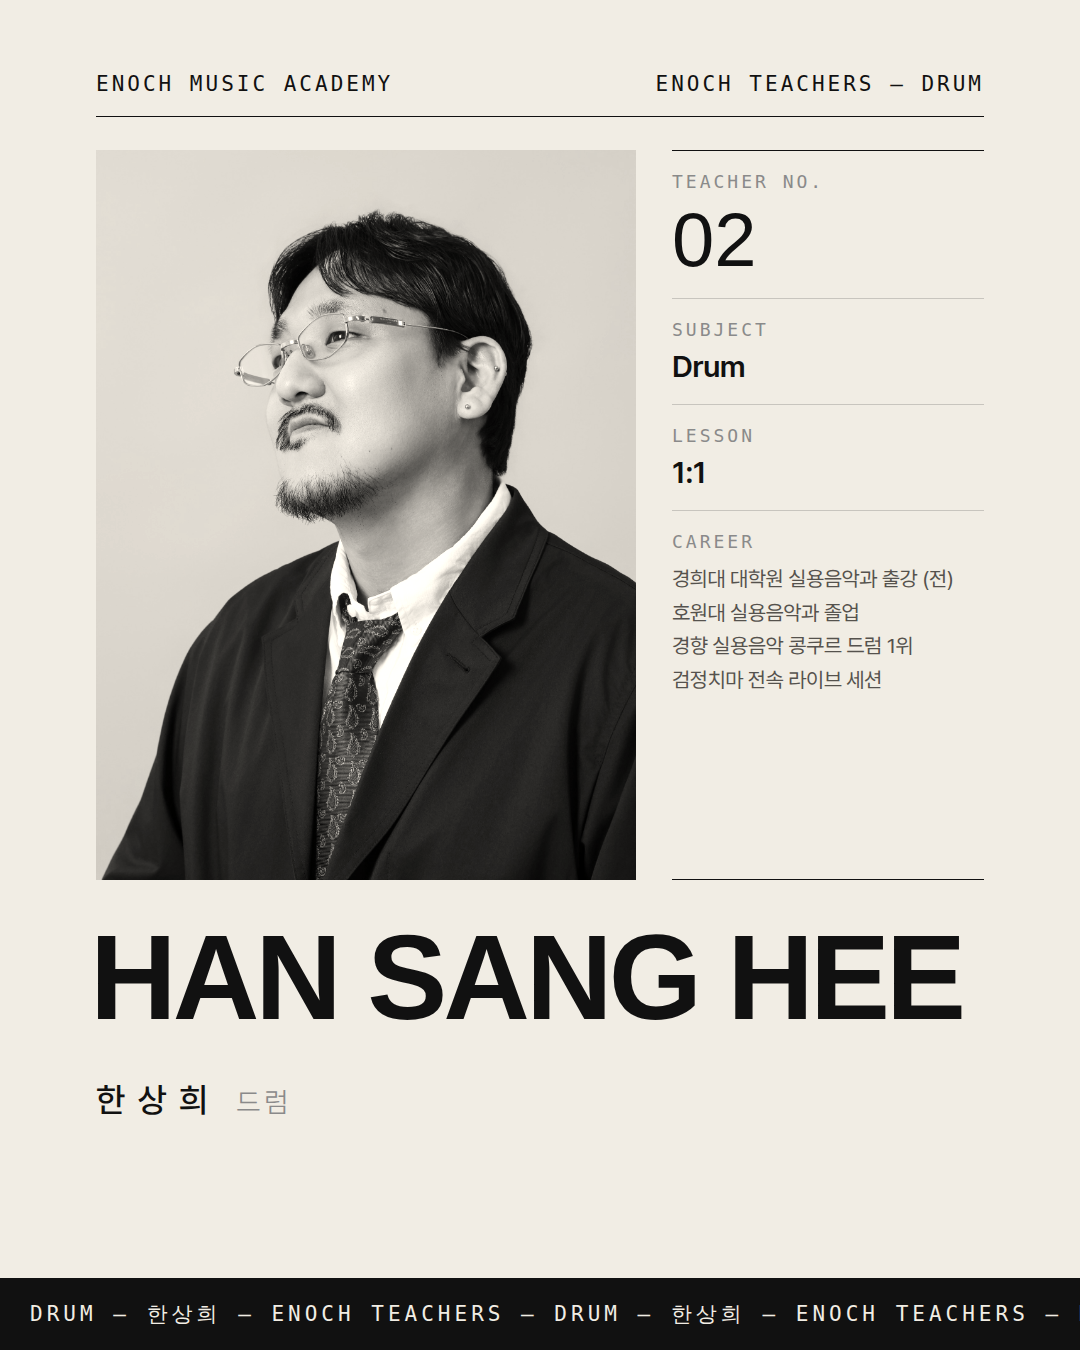
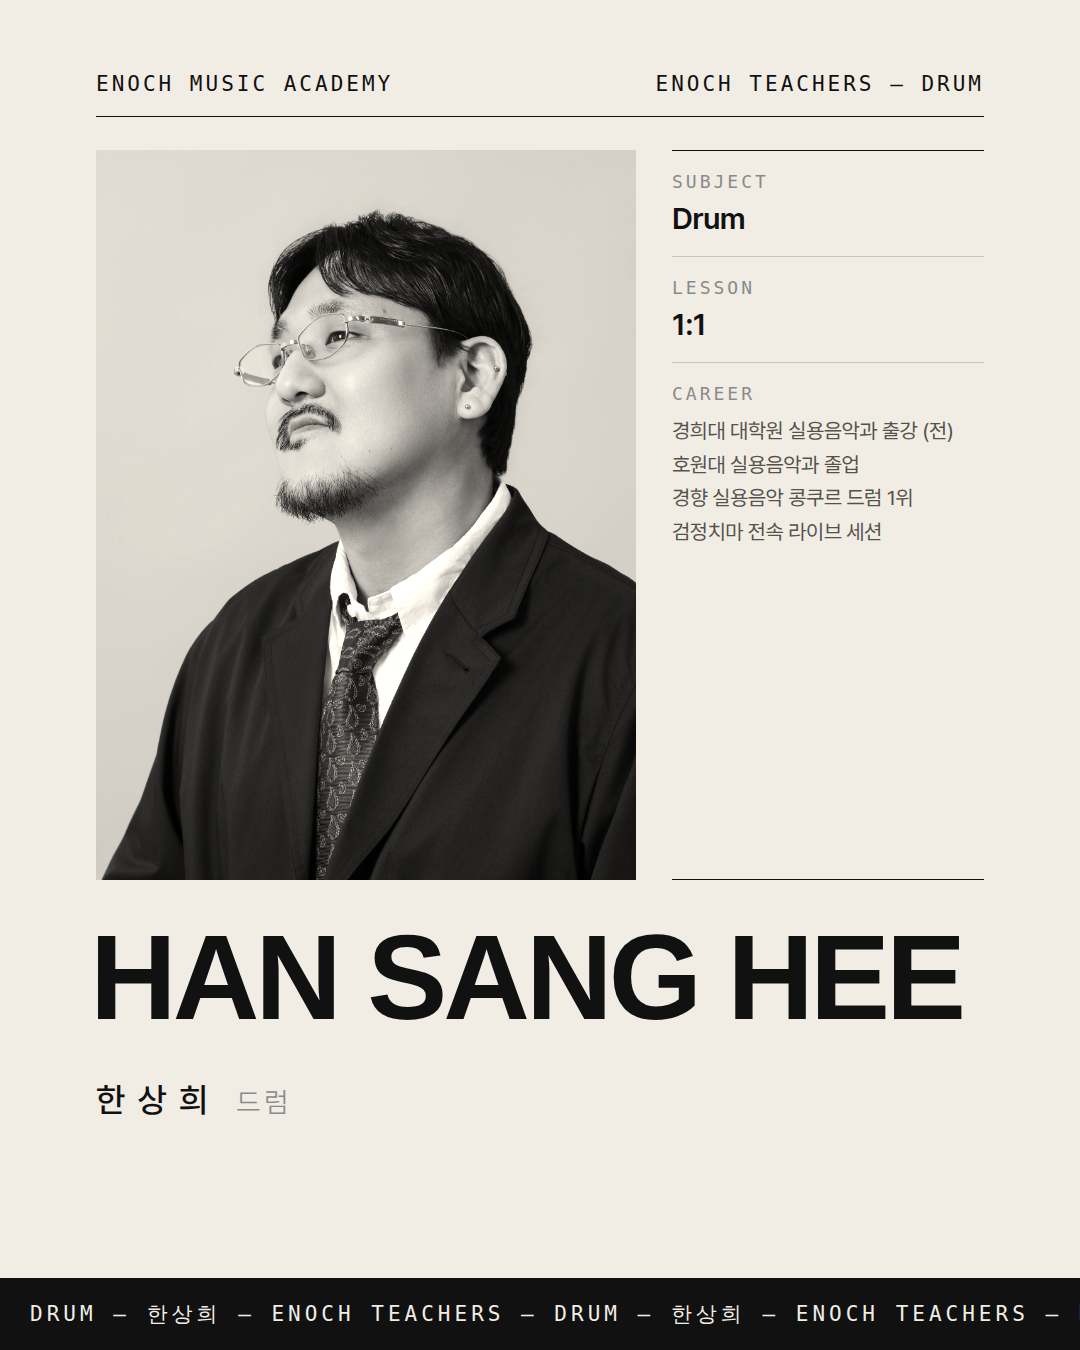
강사 소개: 순번 삭제 (스토리·피드), CLAUDE.md 규칙 반영
Claude-Session: https://claude.ai/code/session_01HGbZvgMeYrbU7mY8bwfjyb

Changed region(s): [[0.6111, 0.1244, 0.8861, 0.5289]]

diff --git a/output/강사소개_한상희/feed.html b/output/강사소개_한상희/feed.html
@@ -47,8 +47,7 @@
   <div class="hd"><span>ENOCH MUSIC ACADEMY</span><span>ENOCH TEACHERS — DRUM</span></div>
   <div class="ph"></div>
   <div class="col">
-    <div class="cell"><div class="k">Teacher No.</div><div class="no" style="margin-top:10px">02</div></div>
-    <div class="cell"><div class="k">Subject</div><div class="v">Drum</div></div>
+        <div class="cell"><div class="k">Subject</div><div class="v">Drum</div></div>
     <div class="cell"><div class="k">Lesson</div><div class="v">1:1</div></div>
     <div class="cell"><div class="k">Career</div><div class="t">경희대 대학원 실용음악과 출강 (전)<br>호원대 실용음악과 졸업<br>경향 실용음악 콩쿠르 드럼 1위<br>검정치마 전속 라이브 세션</div></div>
   </div>

diff --git a/output/강사소개_한상희/feed_black.html b/output/강사소개_한상희/feed_black.html
@@ -63,7 +63,7 @@
 .lime{color:#DDE37C}
 </style></head><body><section class="s bl" id="r1">
   <div class="top"><span class="lab g">ENOCH TEACHERS</span><span class="lab">DRUM</span></div>
-  <div class="side"><span class="n">02</span><span class="lab g" style="writing-mode:vertical-rl;transform:rotate(180deg)">ENOCH MUSIC ACADEMY</span></div>
+  <div class="side"><span></span><span class="lab g" style="writing-mode:vertical-rl;transform:rotate(180deg)">ENOCH MUSIC ACADEMY</span></div>
   <div class="ph"></div>
   <div class="en">HAN SANG HEE</div>
   <div class="ko g">한상희</div>

diff --git a/output/강사소개_한상희/story.html b/output/강사소개_한상희/story.html
@@ -36,7 +36,7 @@
 
 <section class="s" id="R">
   <div class="top"><span class="lab g">ENOCH TEACHERS</span><span class="lab">DRUM</span></div>
-  <div class="side"><span class="n">02</span><span class="lab g" style="writing-mode:vertical-rl;transform:rotate(180deg)">ENOCH MUSIC ACADEMY</span></div>
+  <div class="side"><span></span><span class="lab g" style="writing-mode:vertical-rl;transform:rotate(180deg)">ENOCH MUSIC ACADEMY</span></div>
   <div class="ph"></div>
   <div class="en">HAN<br>SANG HEE</div>
   <div class="ko g">한상희</div>

diff --git a/output/강사소개_한상희/caption.md b/output/강사소개_한상희/caption.md
@@ -1,7 +1,7 @@
 # 캡션: 강사 소개 — 한상희 (Drum) 피드
 
 ## 본문
-ENOCH TEACHERS 02. 드럼, 한상희 선생님.
+ENOCH TEACHERS. 드럼, 한상희 선생님.
 
 검정치마 전속 라이브 세션, 윤종신 '좋니 콘서트' 전국투어 오프닝 밴드 전속 드러머. 무대와 녹음실에서 쌓은 박을, ENOCH에서는 1:1로 나눕니다.
 
@@ -15,7 +15,7 @@ ENOCH TEACHERS 02. 드럼, 한상희 선생님.
 #드럼레슨 #드럼학원 #실용음악입시 #입시드럼 #취미드럼 #성인드럼 #시흥드럼학원 #대야역음악학원 #시흥실용음악학원 #에녹실용음악학원
 
 ## 대체 텍스트
-1. 흑백 톤 프로필 사진과 오른쪽 격자(02 · Drum · 1:1 · 대표 약력 4줄), 큰 영문 이름 HAN SANG HEE, 한상희 드럼, 하단 반복 텍스트 띠.
+1. 흑백 톤 프로필 사진과 오른쪽 격자(Drum · 1:1 · 대표 약력 4줄), 큰 영문 이름 HAN SANG HEE, 한상희 드럼, 하단 반복 텍스트 띠.
 2. 약력 표: Education, Awards, Band, PERC%NT.
 3. 약력 표: Live, Recording.
 4. 검정 장 "무대에서 쌓은 박을, 1:1로." 원칙 2, 모든 과정 1:1, 주소·전화·과목.

diff --git a/CLAUDE.md b/CLAUDE.md
@@ -81,7 +81,7 @@
 - 큰 영문 이름 + 한글 이름, 얇은 선 그리드, 반복 텍스트 띠
 - 강사 인용문 페이지는 넣지 않는다.
 - 스토리 하이라이트 강사 소개(1080×1920)는 블랙 바탕 비대칭형(시안 R)으로 만든다 (2026-10-10 원장님 결정). 기준: `output/강사소개_김지수/시안/시안_R.png`, 소스 `시안/black.html`의 `#R`
-  - 블랙 #0B0B0B 바탕, 폰트 Pretendard(`templates/fonts/`), 사진은 한 장(컬러)을 오른쪽에, 왼쪽 위 순번(01, 02 …)과 세로 ENOCH MUSIC ACADEMY, 아래 큰 영문 이름 두 줄 + 자간 넓힌 한글 이름 + CAREER.
+  - 블랙 #0B0B0B 바탕, 폰트 Pretendard(`templates/fonts/`), 사진은 한 장(컬러)을 오른쪽에, 세로 ENOCH MUSIC ACADEMY (순번은 넣지 않는다, 2026-10-13 원장님 결정), 아래 큰 영문 이름 두 줄 + 자간 넓힌 한글 이름 + CAREER.
   - 라임 #DDE37C는 아래 과목 옆 작은 점 하나에만 쓴다 (팔레트 예외, 강사 소개 스토리에만).
   - 자연·풍경 사진은 쓰지 않는다 (2026-10-10 원장님 결정).
 

diff --git a/output/강사소개_한상희/review.md b/output/강사소개_한상희/review.md
@@ -14,3 +14,4 @@
 - feed.html → feed_01–04.png (1080×1350). CLAUDE.md 4번 강사 소개 스타일(그리드·에디토리얼 포스터형, 큰 영문 이름 + 한글 이름, 얇은 선 그리드, 반복 텍스트 띠). 강사 인용문 장 없음.
 - 사진은 피드 표지 결에 맞춰 흑백에 가까운 따뜻한 톤.
 - 블랙 피드 버전: feed_black.html → feed_black_01–04.png. 스토리 시안 R 결을 1080×1350으로 옮김(컬러 사진, 라임 점 하나). 약력·마무리 장은 같은 내용 블랙 배경.
+- 2026-10-13: 순번(02) 삭제 — 스토리·피드 모두 (원장님 요청).
